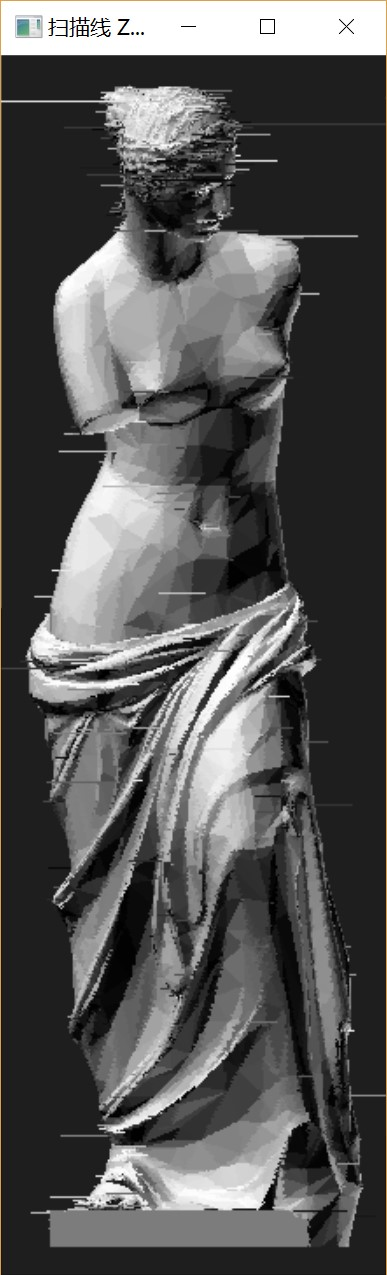
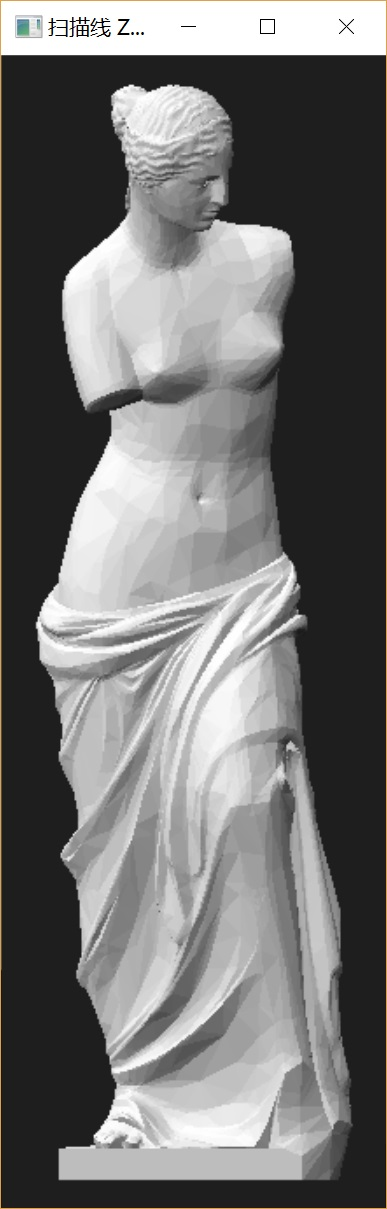
Updated README.md.

diff --git a/README.md b/README.md
@@ -1,8 +1,8 @@
 # 扫描线Z缓冲器算法的实现
 
-Version：2016年11月
+Version：2016年12月
 
-注：本文中的图片及算法描述为老版本（commit #649f2e36），未更新。
+注：本文中的算法描述对应版本为commit #649f2e36。截图对应版本为commit #0916edf6。
 
 ## 1 程序内容
 
@@ -276,6 +276,8 @@ struct Color
 
 图 5-3 模型teapot_wt.obj在不同窗口比例下的显示效果
 
+程序支持模型缩放功能，按`Z`键和`C`键可以放大或缩小模型。
+
 ### 5.2 内部参数设置
 
 由于程序目前规模很小，所以参数就直接在代码里进行设置，没有单独提取到配置文件中。
@@ -361,9 +363,11 @@ bunny_wt.obj | 34834 | 69664 | 无孔兔子模型
 
 ## 7 存在的问题
 
-(Fixed) 部分模型在缩放时会随机出现水平横线，部分模型在缩放时面片的颜色会发生跳变。具体示例如图7-1中红圈部分所示。
+~~(Fixed) 部分模型在缩放时会随机出现水平横线，部分模型在缩放时面片的颜色会发生跳变。~~
 
-![图 7-1 模型显示时的问题](Images/7-1.jpg)
+部分模型在缩放时会随机出现斑点，具体示例如图7-1中红圈部分所示。
+
+![图 7-1 模型显示时的问题](Images/7-1bunny_with_flaws.jpg)
 
 图 7-1 模型显示时的问题
 
